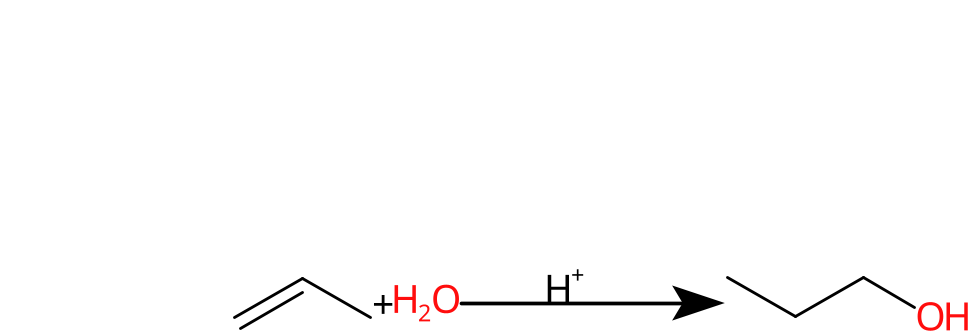
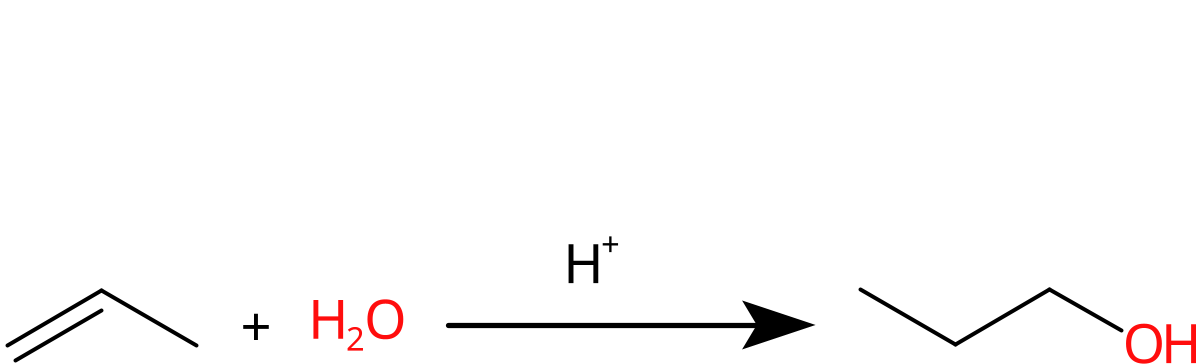
Fixed spacing, ht John

diff --git a/code/RenderReaction.code.md b/code/RenderReaction.code.md
@@ -14,8 +14,7 @@ sp = new SmilesParser(
 reaction = sp.parseReactionSmiles("CC=C.O>[H+]>CCCO")
 new DepictionGenerator()
   .withSize(1200, 600)
-  .withMargin(0.1)
-  .withZoom(3.0)
+  .withFillToFit()
   .withAtomColors()
   .depict(reaction)
   .writeTo("RenderReaction.png");
